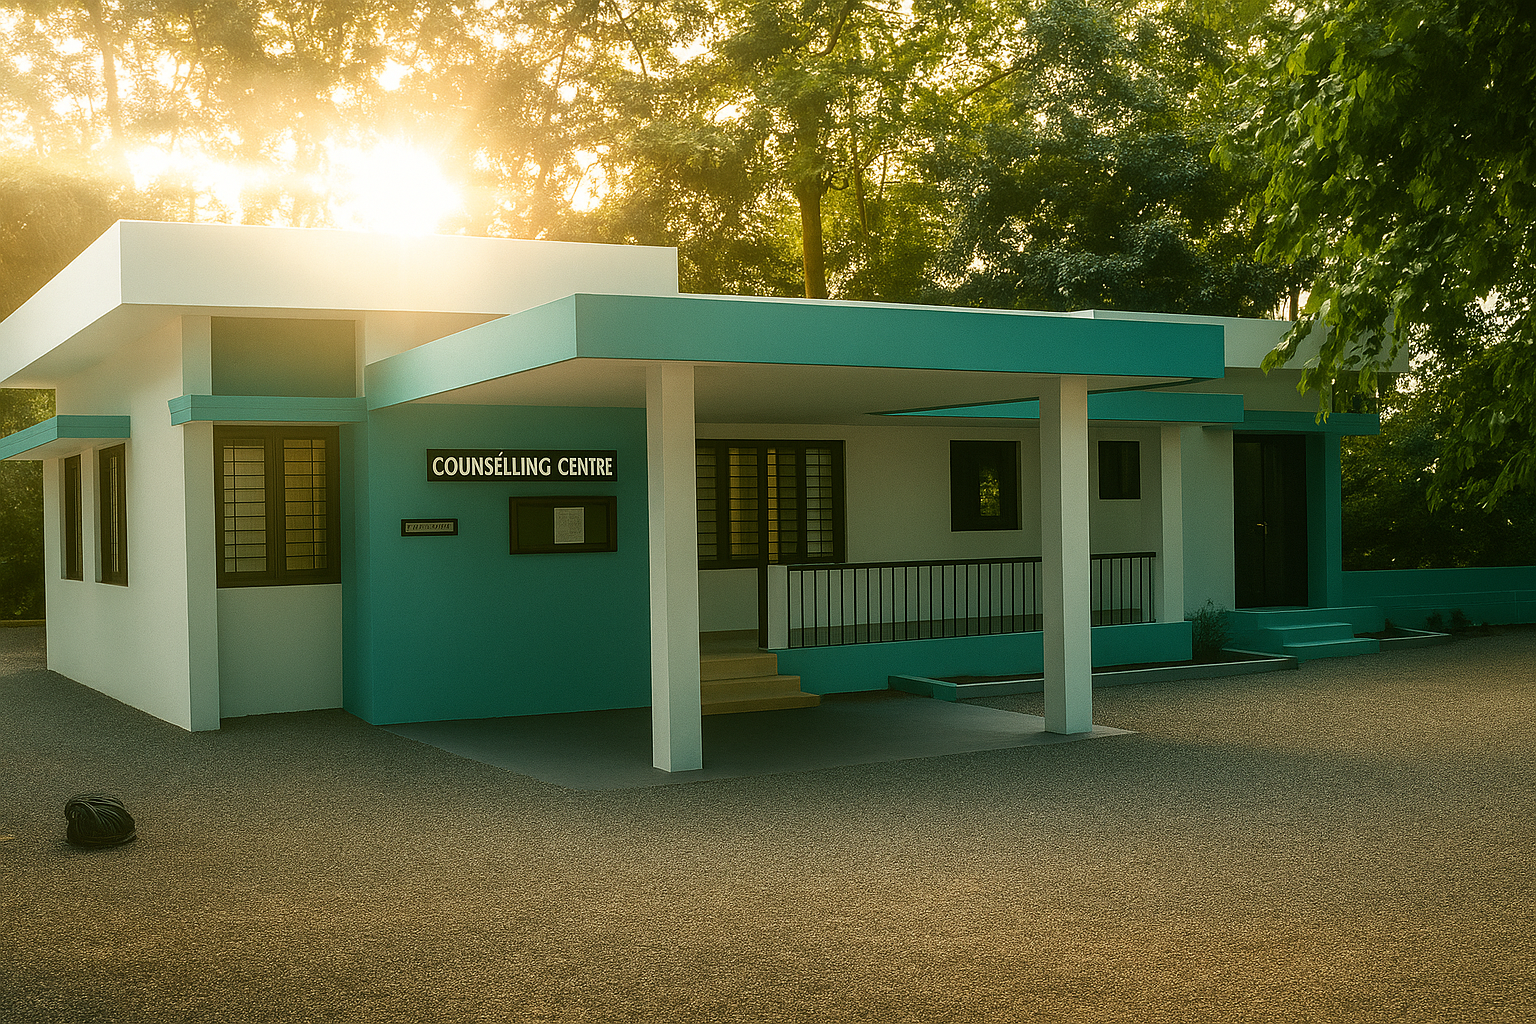
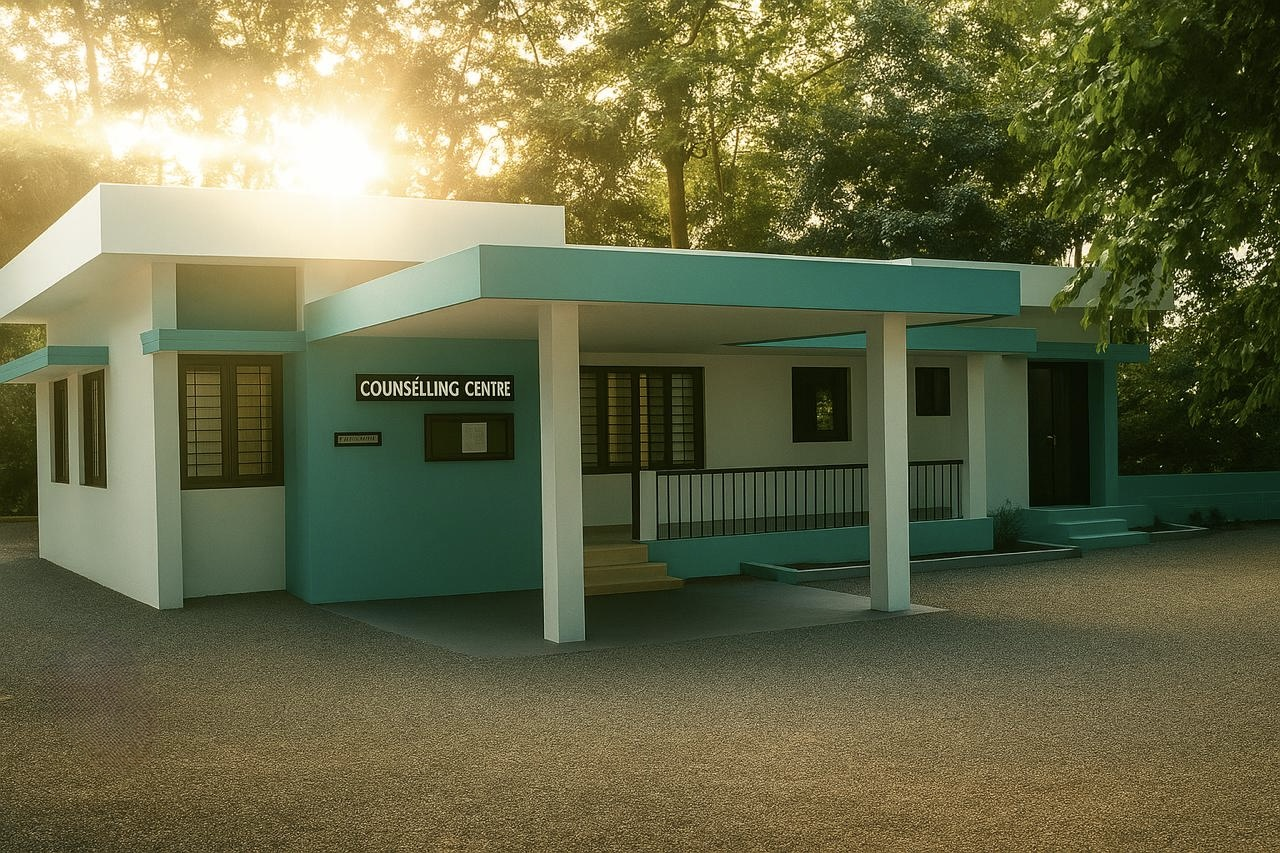
Background photo change fix: pending changes warning cancel issue

diff --git a/Web app/csi-mkd-premarital-app-FE/src/app/core/guards/pending-changes.guard.ts b/Web app/csi-mkd-premarital-app-FE/src/app/core/guards/pending-changes.guard.ts
@@ -16,6 +16,12 @@ export interface HasPendingChanges {
    * If not implemented, a default browser confirm dialog is used.
    */
   confirmNavigation?(): Observable<boolean> | Promise<boolean> | boolean;
+  
+  /**
+   * Optional method called when navigation is cancelled.
+   * Use this to reset loading states or perform cleanup.
+   */
+  onNavigationCancelled?(): void;
 }
 
 /**
@@ -37,13 +43,45 @@ export const pendingChangesGuard: CanDeactivateFn<HasPendingChanges> = (
 
   // Use custom confirmation logic if available
   if (component.confirmNavigation) {
-    return component.confirmNavigation();
+    const result = component.confirmNavigation();
+    
+    // Handle the result to call onNavigationCancelled when needed
+    if (result instanceof Promise) {
+      return result.then((confirmed: boolean) => {
+        if (!confirmed && component.onNavigationCancelled) {
+          component.onNavigationCancelled();
+        }
+        return confirmed;
+      });
+    } else if (result instanceof Observable) {
+      return new Promise((resolve) => {
+        result.subscribe((confirmed: boolean) => {
+          if (!confirmed && component.onNavigationCancelled) {
+            component.onNavigationCancelled();
+          }
+          resolve(confirmed);
+        });
+      });
+    } else {
+      // Synchronous result
+      if (!result && component.onNavigationCancelled) {
+        component.onNavigationCancelled();
+      }
+      return result;
+    }
   }
 
   // Default browser confirmation dialog
-  return confirm(
+  const confirmed = confirm(
     'You have unsaved changes. Are you sure you want to leave this page?'
   );
+  
+  // Call onNavigationCancelled if user cancelled and method exists
+  if (!confirmed && component.onNavigationCancelled) {
+    component.onNavigationCancelled();
+  }
+  
+  return confirmed;
 };
 
 

diff --git a/Web app/csi-mkd-premarital-app-FE/src/app/app.ts b/Web app/csi-mkd-premarital-app-FE/src/app/app.ts
@@ -8,6 +8,8 @@ import {
   ActivatedRoute,
   NavigationEnd,
   NavigationStart,
+  NavigationCancel,
+  NavigationError,
   Router,
   RouterOutlet,
 } from '@angular/router';
@@ -43,7 +45,11 @@ export class App implements OnInit {
     this.router.events.subscribe((event) => {
       if (event instanceof NavigationStart) {
         this.loadingService.show();
-      } else if (event instanceof NavigationEnd) {
+      } else if (
+        event instanceof NavigationEnd ||
+        event instanceof NavigationCancel ||
+        event instanceof NavigationError
+      ) {
         this.loadingService.hide();
       }
     });

diff --git a/Web app/csi-mkd-premarital-app-FE/src/app/feedback-questions/questions/questions.html b/Web app/csi-mkd-premarital-app-FE/src/app/feedback-questions/questions/questions.html
@@ -29,7 +29,7 @@
               [formControlName]="q.controlName"
               rows="4"
               cdkTextareaAutosize
-              cdkAutosizeMinRows="4"
+              cdkAutosizeMinRows="1"
               cdkAutosizeMaxRows="10"
               class="w-full min-h-[80px] resize-none p-2 border rounded"
               aria-required="true"